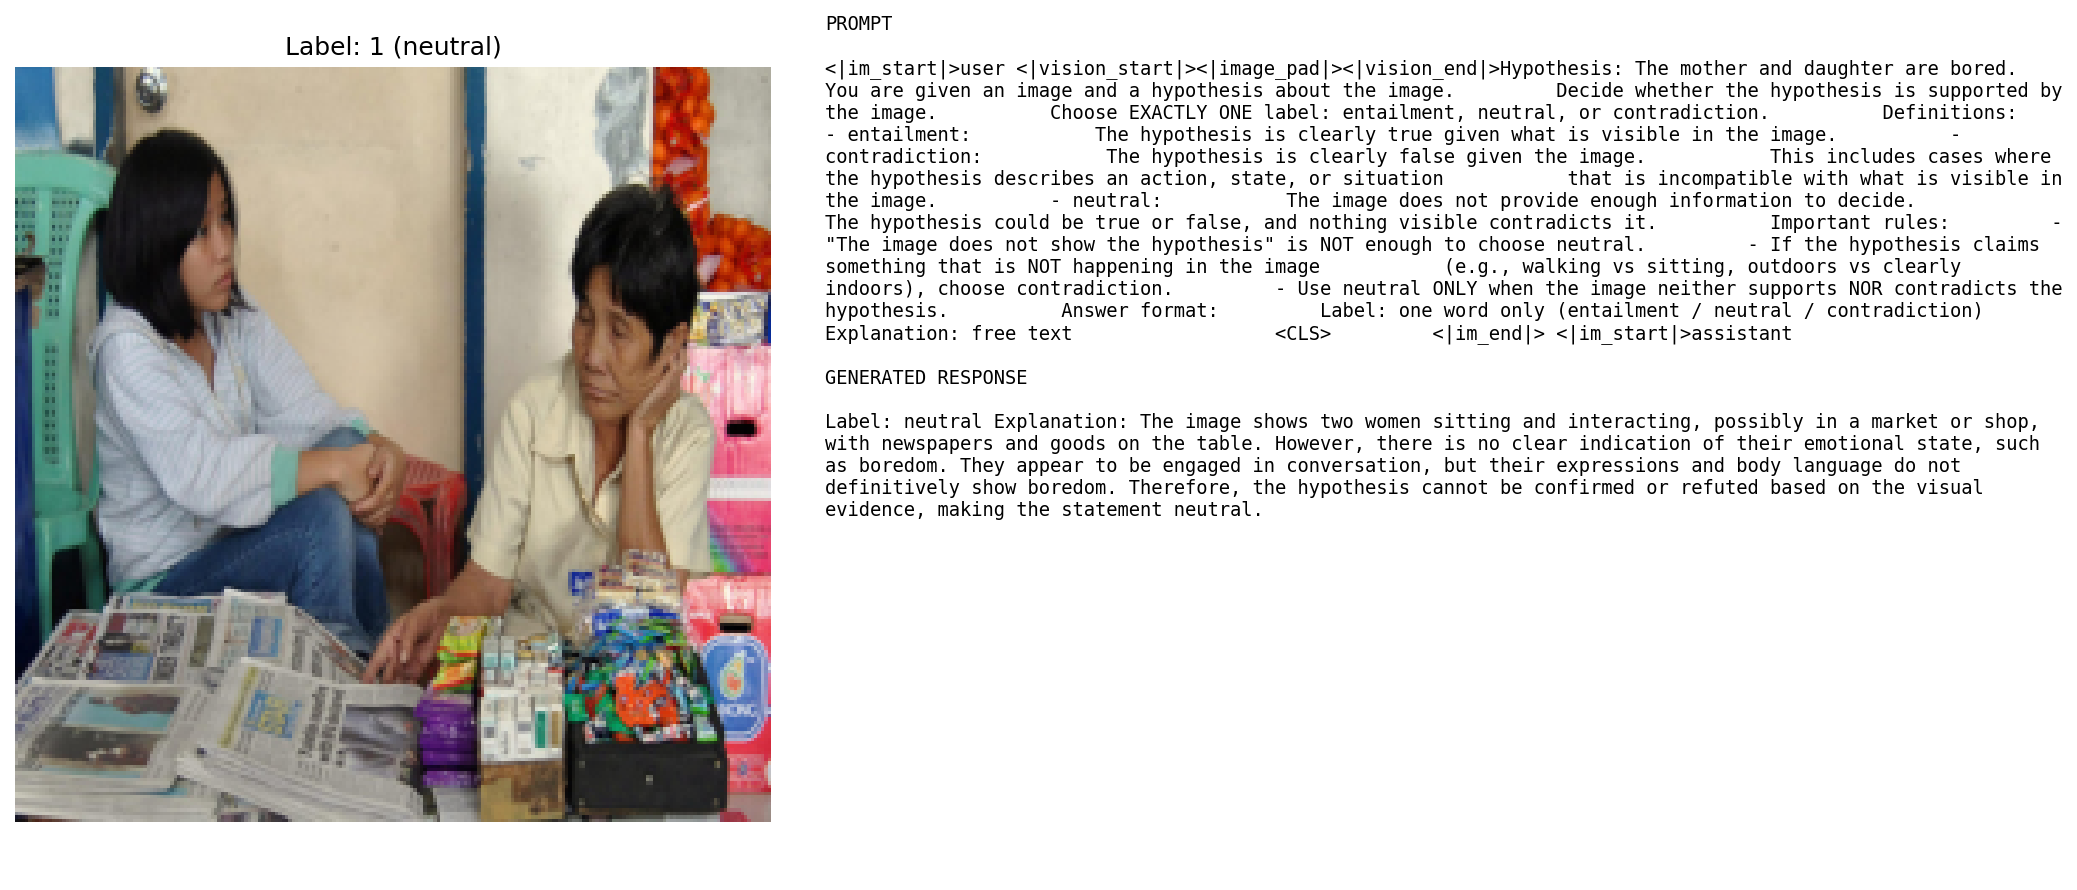
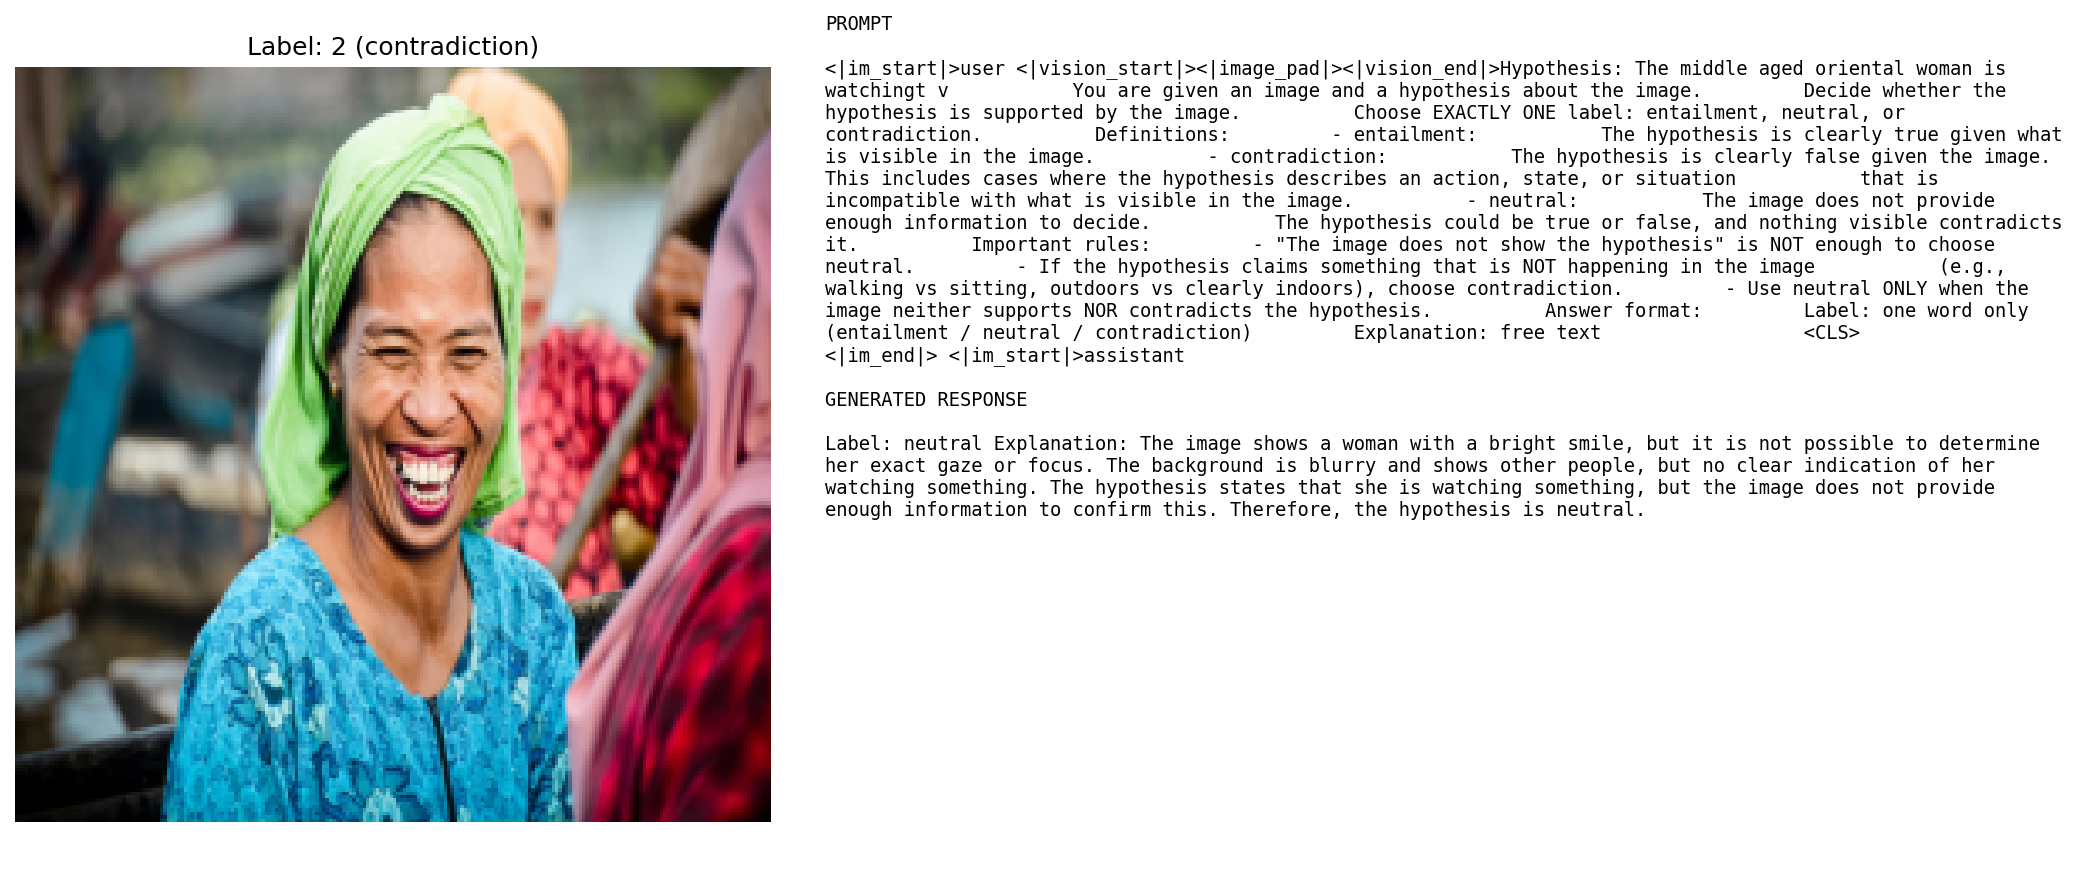
mib

diff --git a/models/Synergy_Models_Dec.py b/models/Synergy_Models_Dec.py
@@ -3084,11 +3084,11 @@ class QwenVL_ESNLI_Synergy_FrozenCLS(nn.Module):
             return_dict_in_generate=False,
         )
 
-        # Debug shapes
-        if debug:
-            print("input_ids:", input_ids.shape)
-            print("gen_ids:", gen_ids.shape)
-            print("new tokens:", gen_ids.shape[1] - input_ids.shape[1])
+        # # Debug shapes
+        # if debug:
+        #     print("input_ids:", input_ids.shape)
+        #     print("gen_ids:", gen_ids.shape)
+        #     print("new tokens:", gen_ids.shape[1] - input_ids.shape[1])
 
         # Decode only generated continuation (recommended)
         if strip_prompt:
@@ -3173,20 +3173,20 @@ class QwenVL_ESNLI_Synergy_FrozenCLS(nn.Module):
         # # ------------------------------------------------------------------
         # # 3) Inspect what the MODEL ACTUALLY GETS
         # # ------------------------------------------------------------------
-        print("\n=== PROCESSOR OUTPUT ===")
-        print("proc keys:", proc.keys())
-
-        pv = proc.get("pixel_values", None)
-        if pv is None:
-            print("NO pixel_values in proc -> text-only VL!")
-        else:
-            print("pixel_values shape:", pv.shape, pv.dtype, pv.device)
-            print(
-                "pixel_values min/max/mean:",
-                pv.min().item(),
-                pv.max().item(),
-                pv.mean().item(),
-            )
+        # print("\n=== PROCESSOR OUTPUT ===")
+        # print("proc keys:", proc.keys())
+        #
+        # pv = proc.get("pixel_values", None)
+        # if pv is None:
+        #     print("NO pixel_values in proc -> text-only VL!")
+        # else:
+        #     print("pixel_values shape:", pv.shape, pv.dtype, pv.device)
+        #     print(
+        #         "pixel_values min/max/mean:",
+        #         pv.min().item(),
+        #         pv.max().item(),
+        #         pv.mean().item(),
+        #     )
 
         # Move tensors to model device (DO NOT move non-tensors)
         proc = {k: (v.to(model_device) if torch.is_tensor(v) else v) for k, v in proc.items()}
